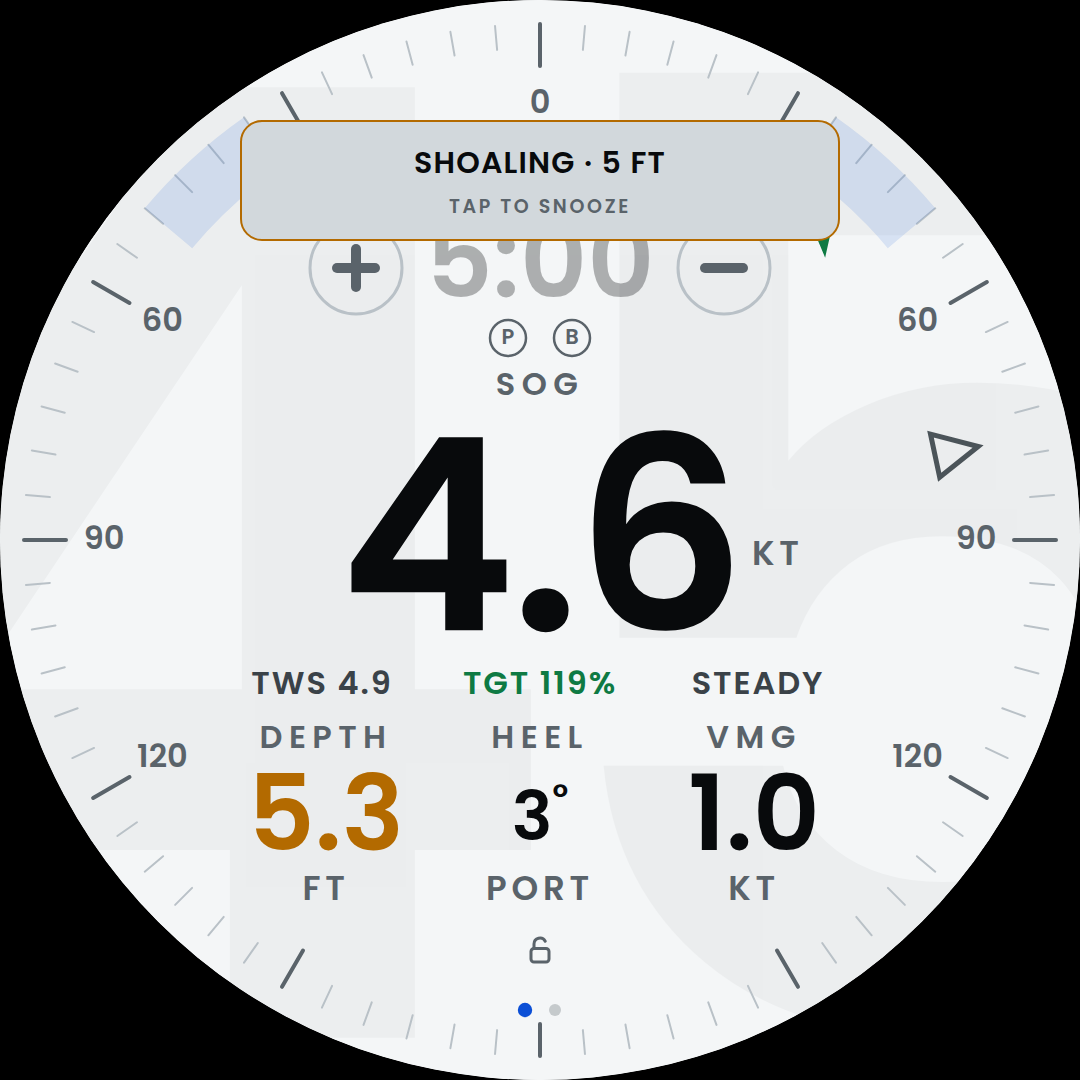
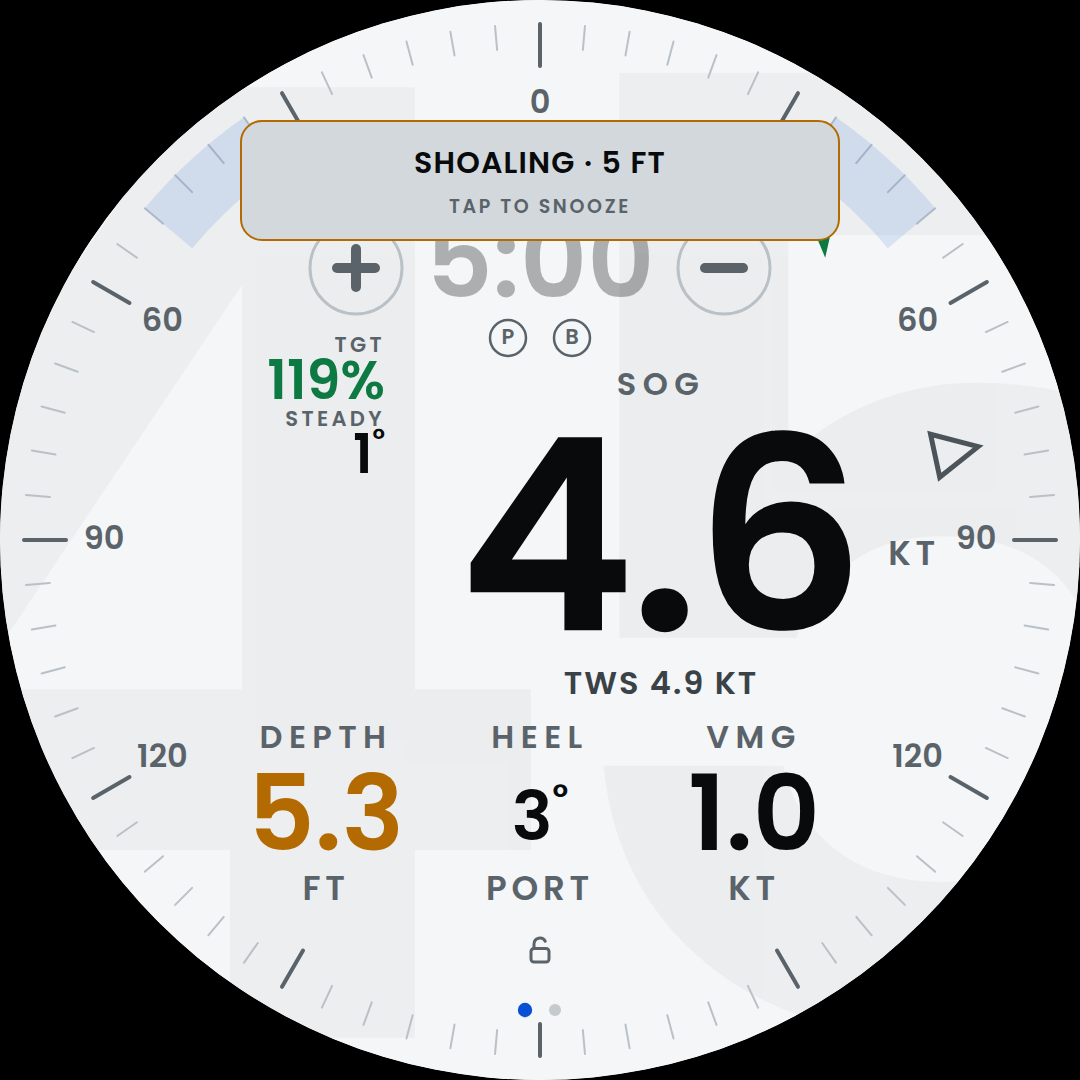
The race column: every race number stacked down the left of the big one
TGT, the shift, and during the countdown TO LINE, BIAS and BURN are five
label-over-value rows right-aligned against 385, 74 apart from 346 to
680. The ragged edge faces the bezel curve, the straight edge faces the
number. Values at 54px, the unit riding on TO LINE and BURN as a
half-size tspan; the shift's label says LIFT, HEADER or STEADY and its
value the degrees. The three countdown rows fold away outside the
countdown instead of taking over the bottom cells, so depth, heel and
VMG stay through the sequence and the picker no longer refuses them.

The big cell is right-aligned to make the room: the unit's tail is
pinned at 940, the number hangs SPD_GAP short of it and may reach no
further left than 405. dialFit() sets every x each repaint and scales
the number down when a wide reading would cross that - 12.1 to about
216px, -140° to about 172 - and a wide unit (STBD, BOW UP) moves the
number left rather than the unit into the bezel's 90. Label, strip and
the strip's tap rect are centred on the number; the cell's own rect
starts at 405 so the column is never a tap on it.

The strip has its unit back - TWS 4.9 KT - now that it has the row to
itself.

Docs: readings.md gets the race column and the fit; a countdown shot.

diff --git a/confluence_helm.html b/confluence_helm.html
@@ -129,7 +129,12 @@ body.night #mark{opacity:.07}
 .tbtn rect{fill:var(--label)}
 .tbtn:active circle{fill:var(--chip)}
 .strip{font-size:32px;font-weight:600;fill:var(--ink-dim);letter-spacing:.06em}
-.strip.good{fill:var(--stbd)}.strip.bad{fill:var(--port)}
+/* the race column: five label-over-value rows down the left of the big
+   number. The value is .rval; a unit rides on it as a half-size tspan. */
+.rlbl{font-size:21px;font-weight:var(--w-lbl);letter-spacing:.16em;fill:var(--label)}
+.rval{font-size:54px;font-weight:var(--w-val);fill:var(--ink)}
+.rval .u{font-size:.5em;font-weight:600;fill:var(--label);letter-spacing:.1em}
+.rval.good{fill:var(--stbd)}.rval.bad{fill:var(--port)}
 .pbtn .ring{fill:none;stroke:var(--label);stroke-width:2.5}
 .pbtn .hit{fill:transparent}
 .pbtn text{font-size:21px;font-weight:600;fill:var(--label)}
@@ -1349,35 +1354,60 @@ document.body.className = THEME_EFF==='day' ? '' : THEME_EFF;
     <rect x="700" y="263" width="48" height="10" rx="5"/>
   </g>
 
-  <!-- 432 tucked this into the digits' negative space, which worked while
-       it said SOG and stopped working the moment it could say BOAT SPEED
-       or APPARENT WIND. 386 clears them: dominant-baseline:middle puts
-       the digits' ink at 432..629, not at the 359 the y attribute alone
-       would suggest, so the label's own ink at 373..395 has 37px of air
-       under it. It clears the timer's +/- buttons at 314 too. -->
-  <text id="spd-label" class="label" x="540" y="386" text-anchor="middle">SOG</text>
-  <text id="spd" class="huge" x="540" y="556" text-anchor="middle">0.0</text>
+  <!-- The big cell is RIGHT-ALIGNED: the race column has the left of
+       the glass, so the number hangs off a right edge and grows leftward
+       into what the column leaves it. dialFit() sets every x here each
+       repaint, and shrinks the number when a wide reading would reach
+       the column - see it for the arithmetic.
+       386 for the label: dominant-baseline:middle puts the digits' ink
+       at 432..629, not at the 359 the y attribute alone would suggest,
+       so the label's own ink at 373..395 has 37px of air under it. It
+       clears the timer's +/- buttons at 314 too. -->
+  <text id="spd-label" class="label" x="633" y="386" text-anchor="middle">SOG</text>
+  <text id="spd" class="huge" x="852" y="556" text-anchor="end">0.0</text>
   <!-- Beside the number, not under it, and sharing its y: every text on
        this dial is dominant-baseline:middle, so the same y centres the
        unit on the number's own middle rather than dropping it to the
-       baseline. dialUnitX() sets the x each repaint from the number's
-       measured width. Anchored start so the unit grows rightward into
-       empty glass instead of back into the digits. -->
-  <text id="spd-u" class="unit" x="756" y="556" text-anchor="start">KT</text>
-  <!-- Off-glass, and the only thing that ever measures a huge string.
-       visibility rather than display so getBBox still answers. -->
+       baseline. Anchored END against a fixed right edge, so a wider unit
+       - STBD, BOW UP - pushes the number left rather than running out
+       into the bezel's 90. -->
+  <text id="spd-u" class="unit" x="940" y="556" text-anchor="end">KT</text>
+  <!-- Off-glass, and the only things that ever measure a huge string or
+       a unit. visibility rather than display so getBBox still answers. -->
   <text id="spd-meas" class="huge" x="0" y="-400" visibility="hidden">0</text>
+  <text id="unit-meas" class="unit" x="0" y="-400" visibility="hidden">KT</text>
 
-  <!-- performance strip: the reading in slot c4, TGT and the shift.
-       Up 21 into the line the big cell's unit used to occupy, and
-       centred in what is left of it: 33px clear of the number's ink
-       above and 32 of the headers below, where it used to have 39 and 7.
-       It belongs with the number - it is that number's context - and the
-       cells below needed the rest of the room more than it did. -->
+  <!-- the strip: the reading in slot c4, one line under the big number
+       and centred on it - dialFit() moves its x with the number's. Up 21
+       into the line the big cell's unit used to occupy: 33px clear of
+       the number's ink above and 32 of the headers below. It belongs
+       with the number - it is that number's context. -->
   <g id="strip">
-    <text id="p-tws" class="strip" x="322" y="685" text-anchor="middle">TWS ––</text>
-    <text id="p-tgt" class="strip" x="540" y="685" text-anchor="middle">TGT ––</text>
-    <text id="p-shf" class="strip" x="758" y="685" text-anchor="middle">––</text>
+    <text id="p-tws" class="strip" x="633" y="685" text-anchor="middle">TWS ––</text>
+  </g>
+
+  <!-- The race column. Every race number, stacked down the left of the
+       big one: target, shift, and during the countdown TO LINE, BIAS and
+       BURN. Right-aligned against 385 so the ragged edge faces the bezel
+       curve, where the room varies, and the straight edge faces the
+       number, which never comes closer than 405. Five rows at 74 from
+       346 to 680: the top label clears the +/- buttons at 314 and the
+       bottom value's ink ends at 700, 26 clear of the DEPTH header. The
+       widest value, PIN +12, is 200 at this size and its left edge at
+       185 is inside the face at every row. -->
+  <g id="race-col">
+    <text id="rc-tgt-l"  class="rlbl" x="385" y="346" text-anchor="end">TGT</text>
+    <text id="rc-tgt"    class="rval" x="385" y="384" text-anchor="end">––</text>
+    <text id="rc-shf-l"  class="rlbl" x="385" y="420" text-anchor="end">SHIFT</text>
+    <text id="rc-shf"    class="rval" x="385" y="458" text-anchor="end">––</text>
+    <g id="rc-cd" style="display:none">
+      <text id="rc-line-l" class="rlbl" x="385" y="494" text-anchor="end">TO LINE</text>
+      <text id="rc-line"   class="rval" x="385" y="532" text-anchor="end">––</text>
+      <text id="rc-bias-l" class="rlbl" x="385" y="568" text-anchor="end">BIAS</text>
+      <text id="rc-bias"   class="rval" x="385" y="606" text-anchor="end">––</text>
+      <text id="rc-burn-l" class="rlbl" x="385" y="642" text-anchor="end">BURN</text>
+      <text id="rc-burn"   class="rval" x="385" y="680" text-anchor="end">––</text>
+    </g>
   </g>
 
   <!-- start line pings: a circled P and B tucked under the countdown,
@@ -1440,20 +1470,20 @@ document.body.className = THEME_EFF==='day' ? '' : THEME_EFF;
        long gone. The lower three start at 716 and stop at 904, clear of
        the lock at 914. -->
   <g id="dial-cells">
-    <!-- The big one, over the label, the number AND the unit beside it:
-         a widest-case 88.8 puts the unit's tail at 882. -->
-    <rect class="dcell" data-g="dial" data-slot="c0" x="270" y="368"
-          width="620" height="272" fill="transparent"/>
+    <!-- The big one, over the label, the number AND the unit beside it.
+         From 405, where the number's room starts, so the race column to
+         its left is never a tap on it. -->
+    <rect class="dcell" data-g="dial" data-slot="c0" x="405" y="368"
+          width="545" height="272" fill="transparent"/>
     <rect class="dcell" data-g="dial" data-slot="c1" x="238" y="716"
           width="176" height="188" fill="transparent"/>
     <rect class="dcell" data-g="dial" data-slot="c2" x="452" y="716"
           width="176" height="188" fill="transparent"/>
     <rect class="dcell" data-g="dial" data-slot="c3" x="666" y="716"
           width="176" height="188" fill="transparent"/>
-    <!-- The strip's reading, the left third of the row: TGT and the
-         shift have the rest and are not pickable. -->
-    <rect class="dcell" id="dc4" data-g="dial" data-slot="c4" x="232" y="652"
-          width="180" height="60" fill="transparent"/>
+    <!-- The strip. x is set with the number's by dialFit(). -->
+    <rect class="dcell" id="dc4" data-g="dial" data-slot="c4" x="513" y="652"
+          width="240" height="60" fill="transparent"/>
   </g>
 
 
@@ -2260,6 +2290,14 @@ const wVal=(id,v)=>{
     el.appendChild(t);
   } else el.textContent=v;
 };
+/* A number with its unit riding on it, half-size, as the race column
+   shows TO LINE and BURN. One string key, so a repeat is a no-op. */
+const wUnit=(id,v,u)=>{
+  const k=id+'|u'; const key=v+'\u0000'+u; if(_w.get(k)===key)return; _w.set(k,key);
+  const el=$(id); el.textContent=v;
+  if(u){ const t=document.createElementNS(SVGNS,'tspan'); t.setAttribute('class','u');
+         t.textContent=' '+u; el.appendChild(t); }
+};
 
 /* The app dock is NOT on this list. The panel covers the glass and a
    running app replaces it, but a dock leaves the dial in plain sight -
@@ -2392,14 +2430,15 @@ function render(){
   const preStart = tState==='idle'||tState==='countdown';
   wSty('pings','display', preStart?'':'none');
 
+  /* ---- the race column ---- */
   let tgtPct=null;
   if(tws!==null && twa!==null && sogR!==null){
     const t=targetSpeed(tws,twa);
     if(t>0.3) tgtPct=(sogR*MS_TO_KT)/t*100;
   }
-  $('p-tgt').textContent = tgtPct===null?'TGT ––':'TGT '+tgtPct.toFixed(0)+'%';
-  $('p-tgt').classList.toggle('good', tgtPct!==null&&tgtPct>=98);
-  $('p-tgt').classList.toggle('bad',  tgtPct!==null&&tgtPct<90);
+  wText('rc-tgt', tgtPct===null?'––':tgtPct.toFixed(0)+'%');
+  wCls ('rc-tgt','good', tgtPct!==null&&tgtPct>=98);
+  wCls ('rc-tgt','bad',  tgtPct!==null&&tgtPct<90);
 
   let twdDeg=get('environment.wind.directionTrue');
   twdDeg = twdDeg===null?null:twdDeg*DEG;
@@ -2408,47 +2447,32 @@ function render(){
      read-only SVGAnimatedString, so assigning a string to it is a silent
      no-op - this has been setting the text since it was written and
      never once turned it green or red. */
+  /* The shift: its label says which way, its value how much. STEADY
+     under two degrees, with the degrees still shown - a 1° is not a 0°. */
   const steady = sh===null||sh.deg<2;
-  wText('p-shf', steady ? 'STEADY'
-        : (sh.lift?'LIFT ':'HEADER ')+sh.deg.toFixed(0)+'°');
-  wCls('p-shf','good', !steady && sh.lift);
-  wCls('p-shf','bad',  !steady && !sh.lift);
+  wText('rc-shf-l', sh===null?'SHIFT' : steady?'STEADY' : sh.lift?'LIFT':'HEADER');
+  wVal ('rc-shf', sh===null?'––':sh.deg.toFixed(0)+'\u00b0');
+  wCls ('rc-shf','good', !steady && sh.lift);
+  wCls ('rc-shf','bad',  !steady && !sh.lift);
 
-  /* ---- three cells, contextual on race state ---- */
+  /* TO LINE, BIAS and BURN are countdown rows: they need the line and
+     the clock, and pre-start or after the gun they would be three rows
+     of dashes. They used to take over the three bottom cells instead,
+     which cost you your readings for the whole sequence. */
+  wSty('rc-cd','display', racing?'':'none');
   const L = racing ? lineData() : null;
-  if(L){
-    wText('c1-lbl','TO LINE');
-    wText('c2-lbl','BIAS');
-    wText('c3-lbl','BURN');
-    const dm = met ? L.dist : L.dist*M_TO_FT;
-    /* Through the SAME cached writers paintDialCells uses. Writing these
-       three straight at the element left the cache holding what the
-       readings had put there, so the handover back could be skipped as a
-       no-op with TO LINE / BIAS / BURN still on the glass - and the same
-       for the classes, where a stale `alarm` stayed red over a depth
-       that was fine. Resetting dialCellKey below fixes the group; this
-       fixes the elements. */
-    wVal ('dpt', Math.abs(dm)>999?'999':String(Math.round(dm)));
-    wCls ('dpt','alarm', L.dist<0);                  // over early
-    wCls ('dpt','warn', false); wCls('dpt','stale', false);
-    /* Abbreviated, like every other unit on the glass since the units
-       were shortened - METRES and SECONDS were the last two words left
-       sitting under numbers that say KT and FT the rest of the time. */
-    wText('dpt-u', met?'M':'FT');
-    wVal ('c2',  Math.abs(L.bias).toFixed(0)+'\u00b0');
-    wText('c2b', L.favoured+' +'+Math.round(met?L.gain:L.gain*M_TO_FT));
-    wCls ('c2','stale', false); wCls('c2b','stale', false);
-    wVal ('vmg', L.burn===null?'––':(L.burn>0?'+':'')+L.burn);
-    wCls ('vmg','alarm', L.burn!==null&&L.burn<0);
-    wText('c3-u','SEC');
-    /* The override has written over all three, so what paintDialCells
-       last put there is no longer what is on the glass. Without this its
-       cache would still match on the frame the countdown ends, and TO
-       LINE / BIAS / BURN would stay up over live readings. */
-    dialCellKey='';
-  } else {
-    paintDialCells();
+  if(racing){
+    const dm = L ? (met ? L.dist : L.dist*M_TO_FT) : null;
+    wUnit('rc-line', dm===null?'––' : Math.abs(dm)>999?'999':String(Math.round(dm)),
+          dm===null?'' : met?'M':'FT');
+    wCls ('rc-line','bad', dm!==null && dm<0);           // over early
+    wText('rc-bias-l', L ? 'BIAS '+Math.abs(L.bias).toFixed(0)+'\u00b0' : 'BIAS');
+    wText('rc-bias', L ? L.favoured+' +'+Math.round(met?L.gain:L.gain*M_TO_FT) : '––');
+    wUnit('rc-burn', !L||L.burn===null?'––':(L.burn>0?'+':'')+L.burn,
+          !L||L.burn===null?'':'S');
+    wCls ('rc-burn','bad', !!L && L.burn!==null && L.burn<0);
   }
+  paintDialCells();
 
   }
   /* ================= end DRAW ========================================= */
@@ -5371,16 +5395,15 @@ function paintDialCells(){
   dialCellKey=key;
   for(const sl of DIAL_SLOTS){
     const els=DIAL_EL[sl], c=musCell(DIAL.slot[sl]);
-    /* The strip: header and value on one line, in the order it would be
-       read aloud - TWS 11.6. It shares the row with TGT and the shift,
-       so the unit is dropped for the width.
+    /* The strip: three lines' worth of text on one line, in the order it
+       would be read aloud - TWS 11.6 KT.
        Plain text rather than wVal: at 32px a full-size degree ring is
        not the fourth digit it becomes at 268, and a tspan inside a
        composed line would have to be built child by child. */
     if(els.length===1){
       const v=c?c.v():null;
       wText(els[0], !c ? '––' : v===null ? musHdr(c)+' ––'
-        : musHdr(c)+' '+v);
+        : [musHdr(c), v, musSub(c)||musDU(c)].filter(Boolean).join(' '));
       wCls(els[0],'stale', v===null);
       continue;
     }
@@ -5390,9 +5413,9 @@ function paintDialCells(){
     wText(lbl, musHdr(c));
     wVal(val, v===null?'––':v);
     wText(third, v===null ? '' : (sub || musDU(c)));
-    /* Only the big cell's unit is beside its number; the other three
-       still sit under theirs, centred, and need no x at all. */
-    if(sl==='c0') wAttr(third,'x', dialUnitX(v===null?'––':v));
+    /* Only the big cell is fitted; the other three sit centred under
+       their headers and need no x at all. */
+    if(sl==='c0') dialFit(v===null?'––':v, v===null ? '' : (sub || musDU(c)));
     wCls(val,'stale', v===null);
     wCls(third,'stale', v===null);
     /* The shallow alarm follows the READING, not the cell. It used to be
@@ -5432,9 +5455,34 @@ function shapeW(str){
                      SHAPE_W.set(k,w); }
   return w;
 }
-const SPD_GAP=28;
-function dialUnitX(v){
-  return Math.round(540+(v?shapeW(v):0)/2+SPD_GAP);
+const UNIT_W=new Map();
+function unitW(str){
+  if(!str) return 0; let w=UNIT_W.get(str);
+  if(w===undefined){ wText('unit-meas',str); w=$('unit-meas').getBBox().width;
+                     UNIT_W.set(str,w); }
+  return w;
+}
+/* The big cell's geometry, from the right. The unit's tail is pinned at
+   UNIT_R, 940: the bezel's 90 starts at 956. The number ends SPD_GAP
+   short of the unit's head, so a wide unit - STBD, BOW UP - moves the
+   number left rather than the unit right. And the number may reach no
+   further left than NUM_L, 405: the race column ends at 385. A reading
+   whose 268px width would cross that is scaled down to fit - 12.1 is
+   about 75%, -140° about 60% - because the column is what was asked for
+   and a number shrunk to fit is still the biggest thing on the glass.
+   Label and strip are centred on the number, and the strip's tap rect
+   follows them; the cell's own rect is fixed at 405..950. */
+const SPD_GAP=28, UNIT_R=940, NUM_L=405, HUGE=268;
+function dialFit(v,u){
+  const numR = UNIT_R - unitW(u) - (u?SPD_GAP:0);
+  const w=shapeW(v), room=numR-NUM_L;
+  const fs = w>room ? HUGE*room/w : HUGE;
+  const cx = Math.round(numR - Math.min(w,room)/2);
+  wAttr('spd','x', numR);
+  wSty ('spd','fontSize', fs.toFixed(1)+'px');
+  wAttr('spd-label','x', cx);
+  wAttr('p-tws','x', cx);
+  wAttr('dc4','x', cx-120);
 }
 
 let stripKey='';
@@ -5615,12 +5663,6 @@ $('dial-cells').addEventListener('pointerdown',e=>{
   if(e.target.closest('.dcell')){ gClaim(); G.releaseOnDrag=true; } });
 $('dial-cells').addEventListener('click',e=>{
   const c=e.target.closest('.dcell'); if(!c) return;
-  /* TO LINE / BIAS / BURN own the three LOWER cells during the
-     countdown - the local up in tick() that decides it is called
-     `racing`, which it is not; it is the same condition spelled out.
-     Offering a choice you would not then see is worse than not offering.
-     The big one is not overridden, so it stays yours throughout. */
-  if(c.dataset.slot!=='c0' && tState==='countdown') return;
   e.stopPropagation(); musPickOpen('dial', c.dataset.slot, c); });
 
 /* ---- the menu scrolls itself ---------------------------------------

diff --git a/docs/readings.md b/docs/readings.md
@@ -114,13 +114,20 @@ serves it when it can; the arithmetic is the same number when it cannot.
 
 | Slot | Where | Default |
 |---|---|---|
-| `c0` | the big number in the middle, with its unit beside it | BOAT SPEED |
-| `c4` | the left of the strip under it — header and value on one line, beside the polar target and the shift | TRUE WIND SPEED |
+| `c0` | the big number, right of centre, with its unit beside it | BOAT SPEED |
+| `c4` | the strip under it — header, value and unit on one line | TRUE WIND SPEED |
 | `c1` `c2` `c3` | the row along the bottom | DEPTH · HEEL · VMG |
 
 The middle of the bottom three is set smaller than its neighbours, and
 that is geometry rather than preference: the three are 214 px apart and
 only the outer two can overflow towards the rim.
+
+The big number is **right-aligned**, not centred, because the left of
+the glass belongs to the race column (below). Its unit's tail is pinned
+just short of the bezel's 90, and the number hangs off that and grows
+leftward. A reading too wide to stop short of the column — 12.1 is, 4.6
+is not — is drawn smaller rather than allowed to touch it, so the column
+never moves and the number is still the biggest thing on the glass.
 
 **The music page** has three, arranged around the album art.
 
@@ -151,10 +158,29 @@ The dial's big cell is the exception: its unit sits *beside* the number
 rather than under it, measured off the number's own right edge so it
 stays against the last digit.
 
-The strip is the other: header and value only, no third line. It shares
-its row with `TGT` and the lift/header readout, and a heading's compass
-point or a mark's range beside them runs into the target — so the strip
-is where a number goes, and a cell is where its context does.
+## The race column
+
+Every race number, stacked down the left of the big one, label over
+value, as large as five rows in that space allow.
+
+![The dial during a countdown](img/dial-countdown.png)
+
+| Row | What it is | When |
+|---|---|---|
+| `TGT` | boat speed as a percentage of the polar target for this wind; green at 98 % and up, red under 90 % | always |
+| `LIFT` / `HEADER` / `STEADY` | the shift since the wind direction settled, in degrees; the label says which way, the value how much | always |
+| `TO LINE` | distance to the start line, metres or feet with the depth unit; red when you are over | countdown |
+| `BIAS` | the line's angle to the wind in the label, the favoured end and what it is worth in the value: `PIN +12` | countdown |
+| `BURN` | seconds in hand to the line at this speed; red when you are late | countdown |
+
+The three countdown rows fold away outside the countdown, when they would
+be dashes, rather than sitting there all afternoon. They used to take
+over the three bottom cells instead — which cost you depth, heel and VMG
+for the whole sequence, at the one time you most want the depth.
+
+`PIN` and `BOAT` are the two rings under the countdown: tap each as you
+pass that end of the line, and the column's line numbers are then about
+the line you actually pinged rather than the club marks.
 
 ## When a sensor is not there
 

diff --git a/README.md b/README.md
@@ -24,7 +24,7 @@ dots at the foot say where you are. The dial is the one you come back to.
 
 | | |
 |---|---|
-| ![Dial](docs/img/dial.png) | **Dial** — the instrument. Five readings you choose, a compass bezel carrying apparent and true wind marks, and a start-line timer you tap to run. |
+| ![Dial](docs/img/dial.png) | **Dial** — the instrument. Five readings you choose, a race column down the left, a compass bezel carrying apparent and true wind marks, and a start-line timer you tap to run. |
 | ![Music](docs/img/music.png) | **Music** — what is playing, transport, a volume ring around the album art, and three more readings around that. |
 
 **Apps** are not pages, and the difference is deliberate: a page is always
